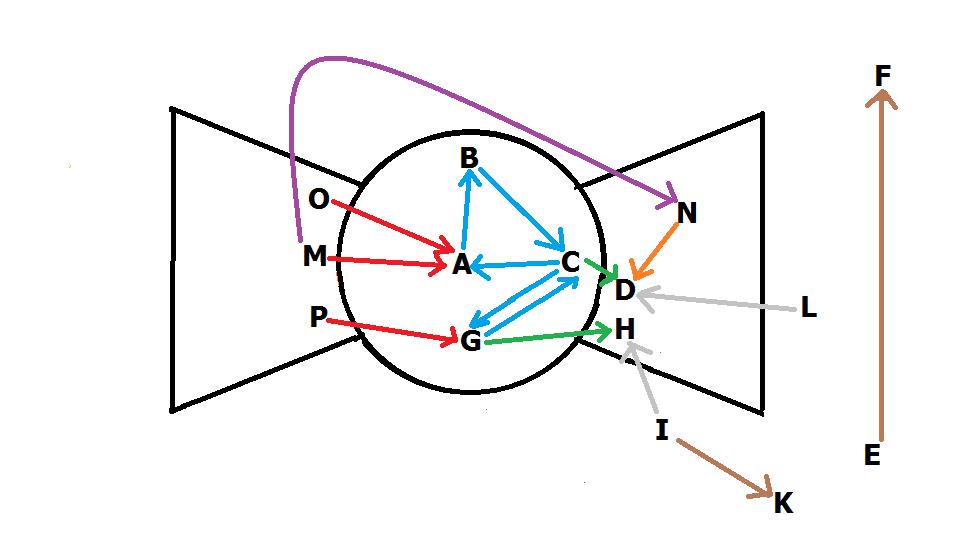
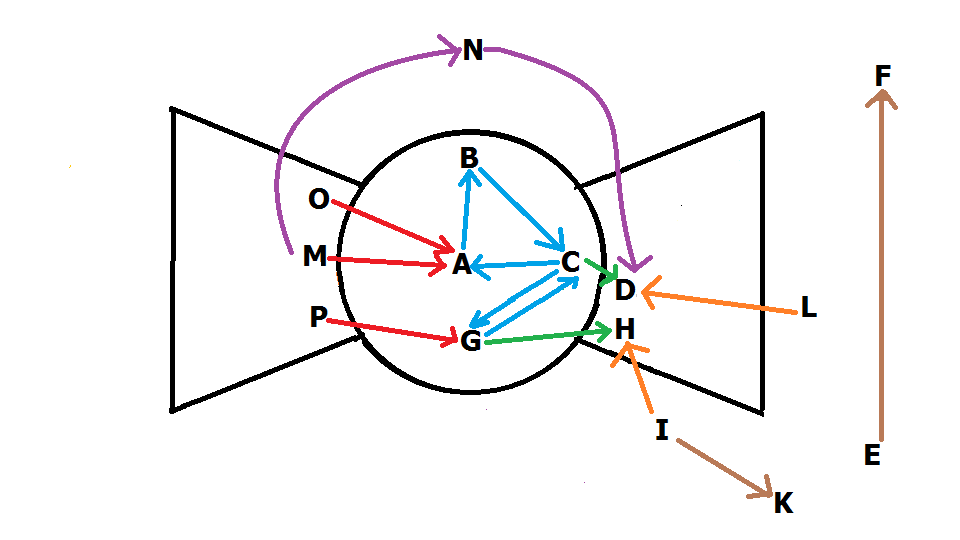
Add files via upload

diff --git a/A1/CS532_A1_Report.tex b/A1/CS532_A1_Report.tex
@@ -505,13 +505,13 @@ IN: O, M, P
 SCC: A, B, C G
 \noindent
 \newline
-OUT: H, D, N
+OUT: H, D
 \noindent
 \newline
 Tendrils: I, K, L
 \noindent
 \newline
-Tubes: there is one tube from M to N (M $\longrightarrow$ N).
+Tubes: N. (There is one tube that runs from M to N to D).
 \noindent
 \newline
 Disconnected: E, F
@@ -519,8 +519,7 @@ Disconnected: E, F
 \caption{Bowtie graph}
 \centering
 \includegraphics[scale=0.5]{bowtie.png}
-
-\end{figure}[h]
+\end{figure}
 \subsection*{Included Files:}
 bowtie.png
 
